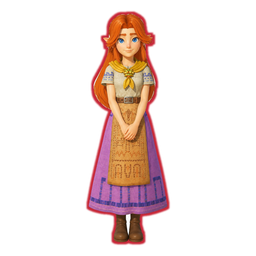
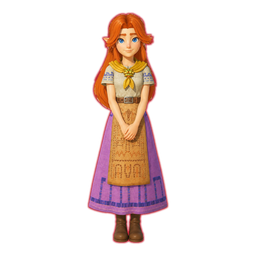
Clean up Malon's art: remove enclosed background pockets
The baked-in checkerboard also sat between her boots and in gaps in her
hair, out of reach of the fill from the edges. Those pockets are now
removed too, and her outline is thinner so it doesn't fill the gap
between her boots.

Claude-Session: https://claude.ai/code/session_01TYYWG89k3AgHdG8G5hDvQP

Changed region(s): [[0.3438, 0.0312, 0.625, 0.625], [0.3125, 0.5, 0.6875, 0.9688]]

diff --git a/art/process_zelda.py b/art/process_zelda.py
@@ -53,6 +53,18 @@ def remove_flat_background(rgb: Image.Image) -> Image.Image:
         for x in (0, w - 1):
             if mask.getpixel((x, y)) == 255:
                 ImageDraw.floodfill(mask, (x, y), 128)
+    # Pockets the edge fill can't reach (between the feet, inside loops of hair): the same
+    # bright, colourless checker grey. Tiny patches (eye whites, highlights) are left alone.
+    label = 50
+    while label < 250:
+        ys, xs = np.nonzero(np.array(mask) == 255)
+        if not len(ys):
+            break
+        ImageDraw.floodfill(mask, (int(xs[0]), int(ys[0])), label)
+        region = np.array(mask) == label
+        if region.sum() >= 40 and mn[region].mean() >= 240:
+            ImageDraw.floodfill(mask, (int(xs[0]), int(ys[0])), 128)
+        label += 1
     bg = np.array(mask) == 128
     alpha = Image.fromarray(np.where(bg, 0, 255).astype(np.uint8)).filter(ImageFilter.MinFilter(3)).filter(ImageFilter.GaussianBlur(1))
     out = rgb.convert("RGBA")
@@ -99,9 +111,13 @@ def square(img: Image.Image) -> Image.Image:
     return canvas.resize((WORK, WORK), Image.LANCZOS)
 
 
-def outlined(fig: Image.Image, color: tuple) -> Image.Image:
+# Thinner outlines where a wide one would fill a narrow gap (between Malon's boots).
+OUTLINE_WIDTH = {"malon": 5}
+
+
+def outlined(fig: Image.Image, color: tuple, width: int = 13) -> Image.Image:
     alpha = fig.getchannel("A")
-    ring = alpha.point(lambda v: 255 if v > 40 else 0).filter(ImageFilter.MaxFilter(13)).filter(ImageFilter.GaussianBlur(2))
+    ring = alpha.point(lambda v: 255 if v > 40 else 0).filter(ImageFilter.MaxFilter(width)).filter(ImageFilter.GaussianBlur(2))
     base = Image.new("RGBA", fig.size, color + (0,))
     base.putalpha(ring)
     base.alpha_composite(fig)
@@ -126,7 +142,7 @@ def main():
         variants = {name: fig, **({"ganon": demon(fig)} if name == "ganondorf" else {})}
         for out_name, art in variants.items():
             for side, color in OUTLINE.items():
-                outlined(art, color).save(os.path.join(OUT, f"{out_name}_{side}.png"), optimize=True)
+                outlined(art, color, OUTLINE_WIDTH.get(name, 13)).save(os.path.join(OUT, f"{out_name}_{side}.png"), optimize=True)
         print("wrote", name)
 
 
